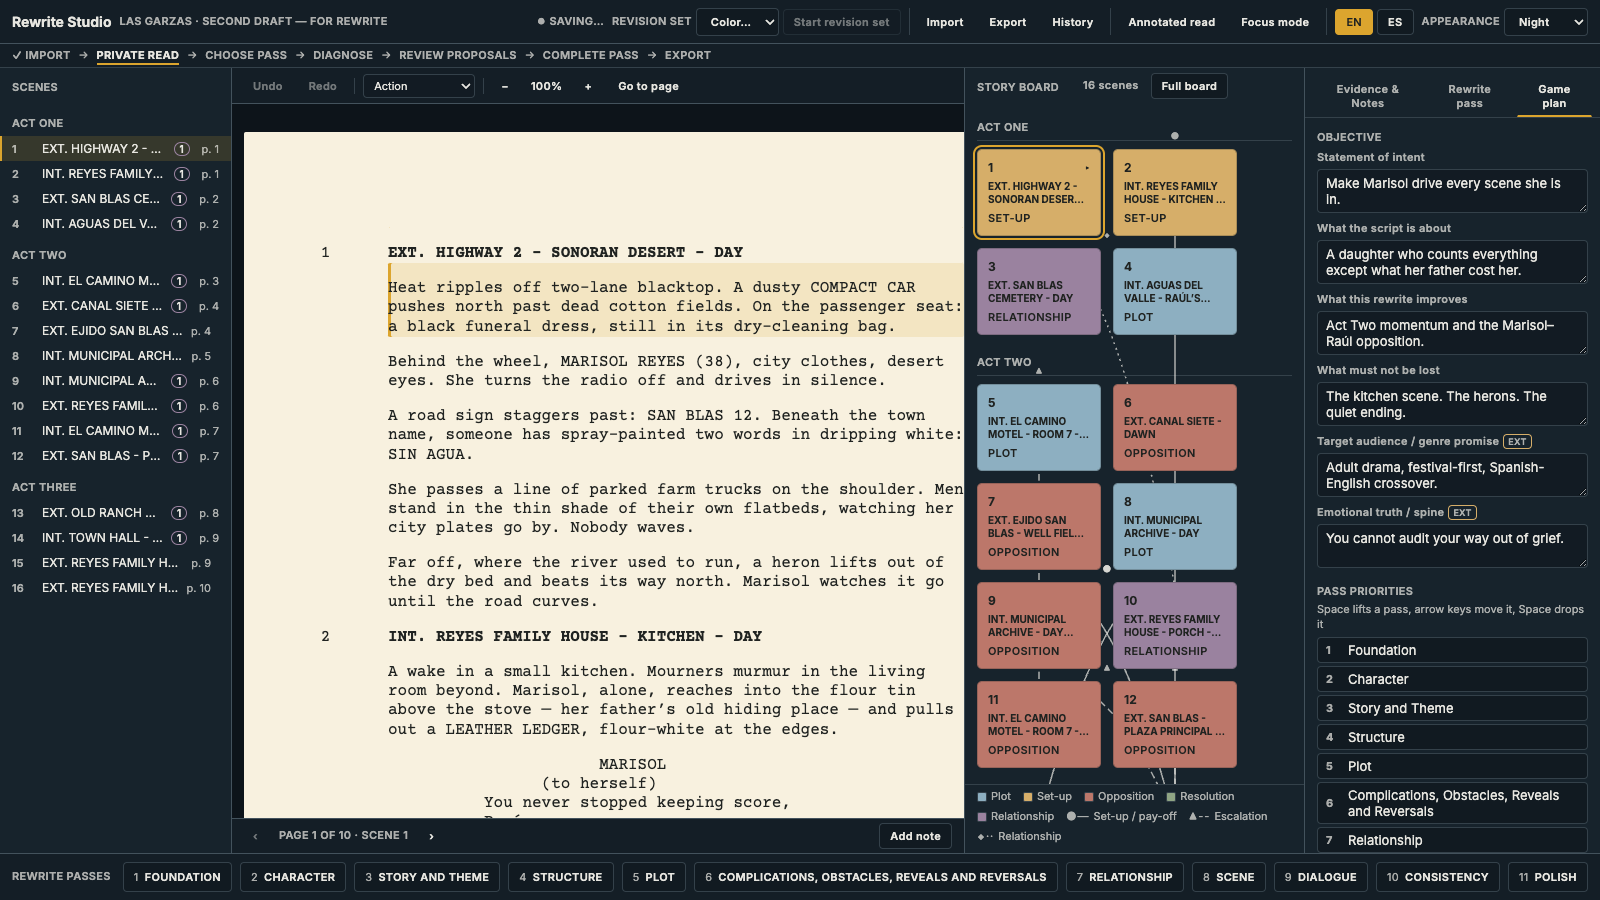
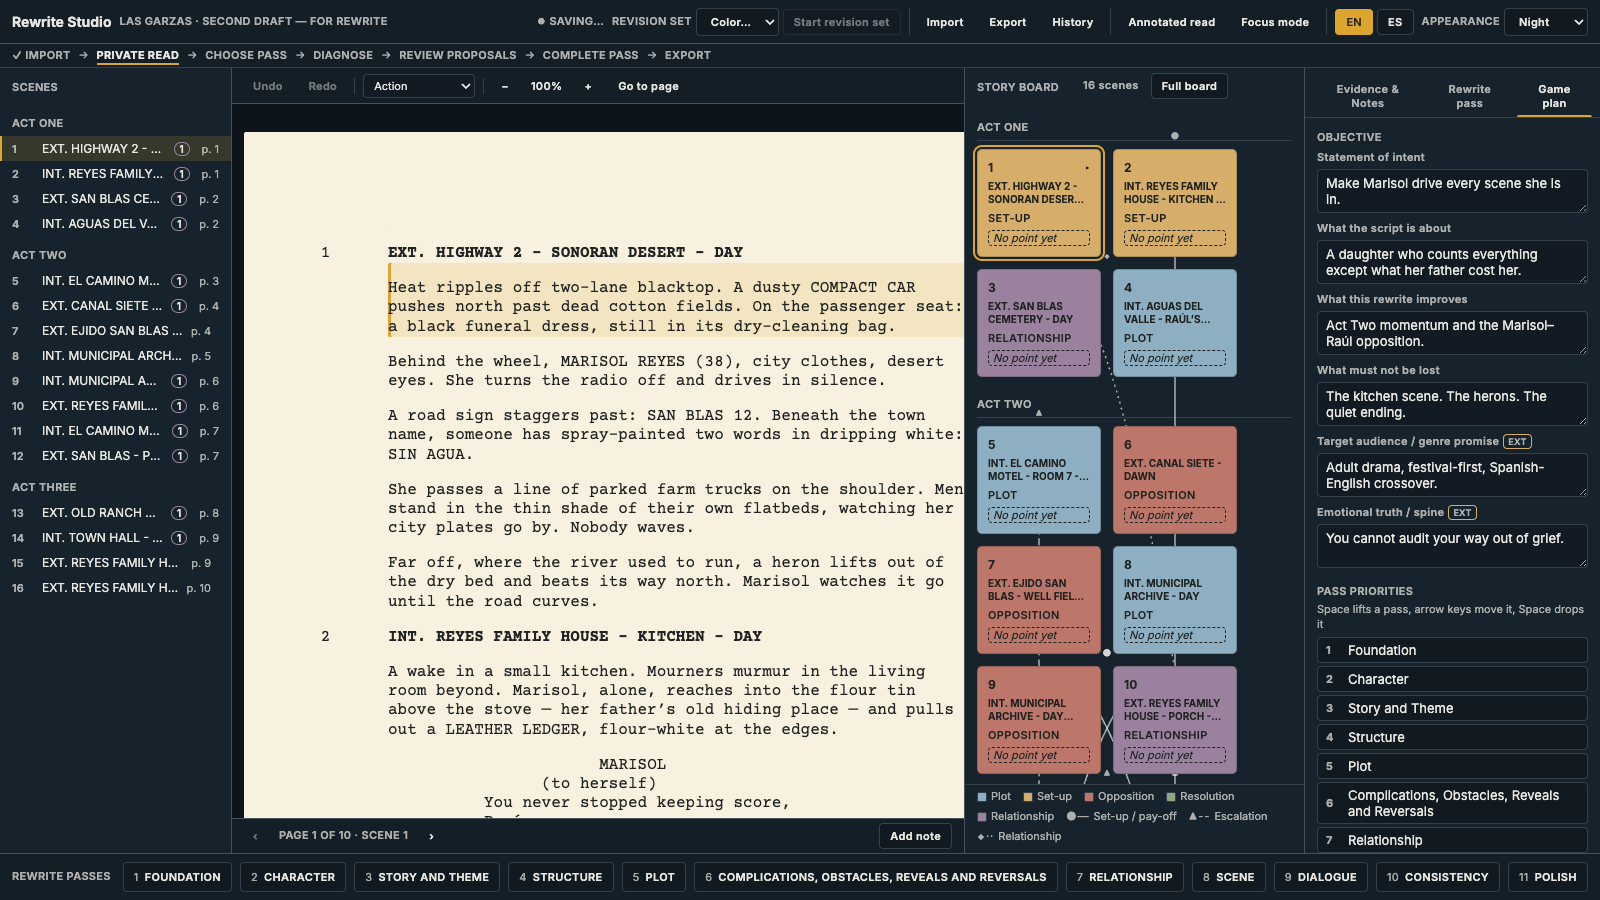
epps M2 proof: screenshots, proof script, handoff (stop for Billy's review)

Changed region(s): [[0.5938, 0.2489, 0.7812, 0.8711]]

diff --git a/docs/HANDOFF.md b/docs/HANDOFF.md
@@ -4,7 +4,9 @@
 
 Billy approved `docs/plans/2026-07-12-epps-methodology-phase.md` (M1–M7) with an explicit STOP after M1 proof for a methodology-direction check before M2. **M1 (Game Plan + Compass) is built, committed (`epps M1:`), and proven** — third inspector tab with Objective (statement of intent, about, improves, must-not-be-lost, two EXT-chipped Studio-extension fields) and Compass (touchstone, ticking clock with exact-line link, theme-through-action, motifs with exact-line occurrences that feed the margin markers), pass priorities drag-orderable via the board's keyboard pattern, additive persistence with a pre-phase migration test. Proof: `docs/proof/epps/` (01, 01b Day twin, 01c). Counts after M1: **251 unit / 51 Playwright / build exit 0**.
 
-**Next action: WAIT for Billy's verdict on M1, then execute M2 (Scene Point) per the plan. Do not start M2 unprompted.**
+**M2 (Scene Point) is built, committed (`epps M2:`), and proven** after Billy accepted M1 — ScenePointCard in the Evidence tab (book placeholder, earns/unsure/cut verdict as words+icons, EXT-chipped dynamics sub-fields), "No point yet" board chips, analyzer scene lens citing exactly the unpointed scenes, writer-marked cut candidates in the Scene pass workspace, additive persistence. Proof: `docs/proof/epps/02*.png`. Counts after M2: **268 unit / 52 Playwright / build exit 0**. (Axe lesson: no reduced-opacity text on tinted cards — it fails AA contrast.)
+
+**Next action: WAIT for Billy's verdict on M2, then execute M3 (Set-Up / Payoff map) per the plan. Do not start M3 unprompted.**
 
 ## Where the previous pass left off
 

diff --git a/docs/proof/epps/README.md b/docs/proof/epps/README.md
@@ -20,4 +20,16 @@ cd /Users/quantumcode/CODE/REWRITING-GAUNTLET && node scripts/proof-epps.mjs
    theme through action, and the Herons motif with a clickable Scene 1
    occurrence.
 
-Later slices (M2–M7) append shots 02–08 here.
+## M2 — Scene Point (2026-07-13)
+
+4. `02-scene-point.png` — Scene 2 selected: the Scene Point card in the
+   Evidence tab with the stated point, "Earns it" pressed (word + icon, no
+   color-alone), and the EXT-chipped Scene dynamics sub-fields. On the board,
+   every scene without a stated point wears its dashed "No point yet" chip;
+   Scene 2's chip is gone.
+5. `02b-scene-pass-cutlist.png` — the Scene pass workspace: the writer-marked
+   cut candidate (Scene 3, with its stated point) listed under a WRITER chip,
+   visibly separate from AI findings; AI diagnosis still locked behind the
+   private read.
+
+Later slices (M3–M7) append shots 03–08 here.
